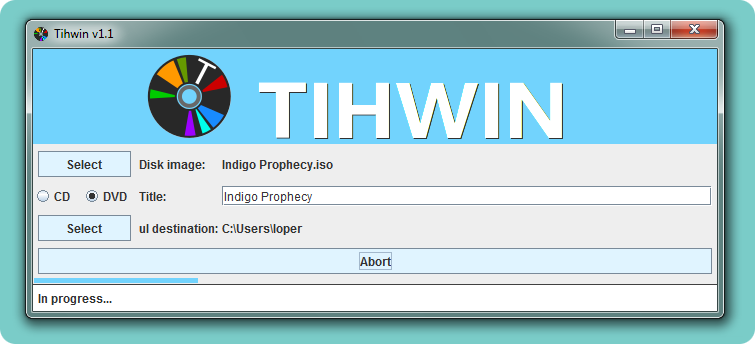
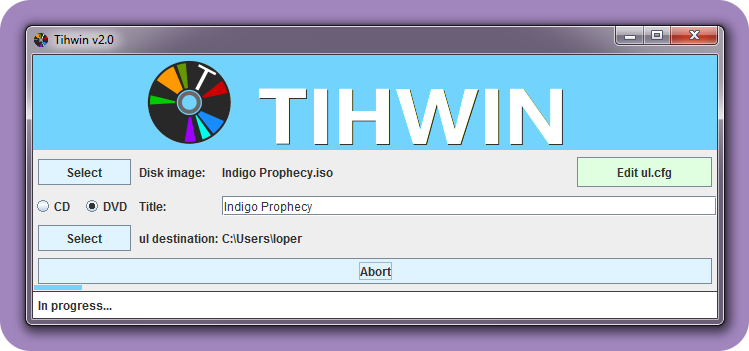
Add screenshots. Remove ul.cfg in case user removed all records inside.

diff --git a/src/main/java/tihwin/UpdateUlTableUi.java b/src/main/java/tihwin/UpdateUlTableUi.java
@@ -32,6 +32,7 @@ import javax.swing.table.DefaultTableColumnModel;
 import javax.swing.table.JTableHeader;
 import java.awt.*;
 import java.io.File;
+import java.nio.file.Files;
 import java.util.*;
 import java.util.List;
 
@@ -49,6 +50,7 @@ public class UpdateUlTableUi extends JFrame {
         super();
         this.resourceBundle = ResourceBundle.getBundle("locale");
         this.ulLocationLbl = new JLabel(ulDestinationLocation);
+        this.recentRomLocation = ulDestinationLocation;
         setupTable();
         setupSaveButton();
 
@@ -86,7 +88,6 @@ public class UpdateUlTableUi extends JFrame {
         setTitle(resourceBundle.getString("ulManager"));
 
         File ulCfgFile = new File(ulDestinationLocation + File.separator + "ul.cfg");
-        this.recentRomLocation = ulDestinationLocation;
         if (ulCfgFile.exists())
             showInTableUlCfgFile(ulCfgFile);
     }
@@ -151,6 +152,7 @@ public class UpdateUlTableUi extends JFrame {
             }
 
             saveChangesBtn.setEnabled(true);
+            ulLocationLbl.setText(ulCfgFile.getParentFile().getAbsolutePath());
             statusLbl.setText(ulCfgFile.getAbsolutePath());
         }
         catch (Exception e){
@@ -193,7 +195,13 @@ public class UpdateUlTableUi extends JFrame {
             // Write new ul.cfg
             UlServiceTools.writeUlCfgFile(ulLocation, finalConfigurationSet);
             File ulCfgFile = new File(ulLocation+File.separator+"ul.cfg");
-            showInTableUlCfgFile(ulCfgFile);
+            if (ulCfgFile.length() == 0) {
+                Files.deleteIfExists(ulCfgFile.toPath());
+                saveChangesBtn.setEnabled(false);
+            }
+            else {
+                showInTableUlCfgFile(ulCfgFile);
+            }
 
             statusLbl.setText(resourceBundle.getString("SuccessText"));
         }

diff --git a/README.md b/README.md
@@ -4,7 +4,8 @@
 
 OPL-compatible PS2 tool for making split files. Sort of ul.cfg manager or USBUtil.
 
-![Application screenshot](screenshots/1.png)
+![Application screenshot1](screenshots/1.png)
+![Application screenshot2](screenshots/2.png)
 
 #### Let's stay in touch
 
